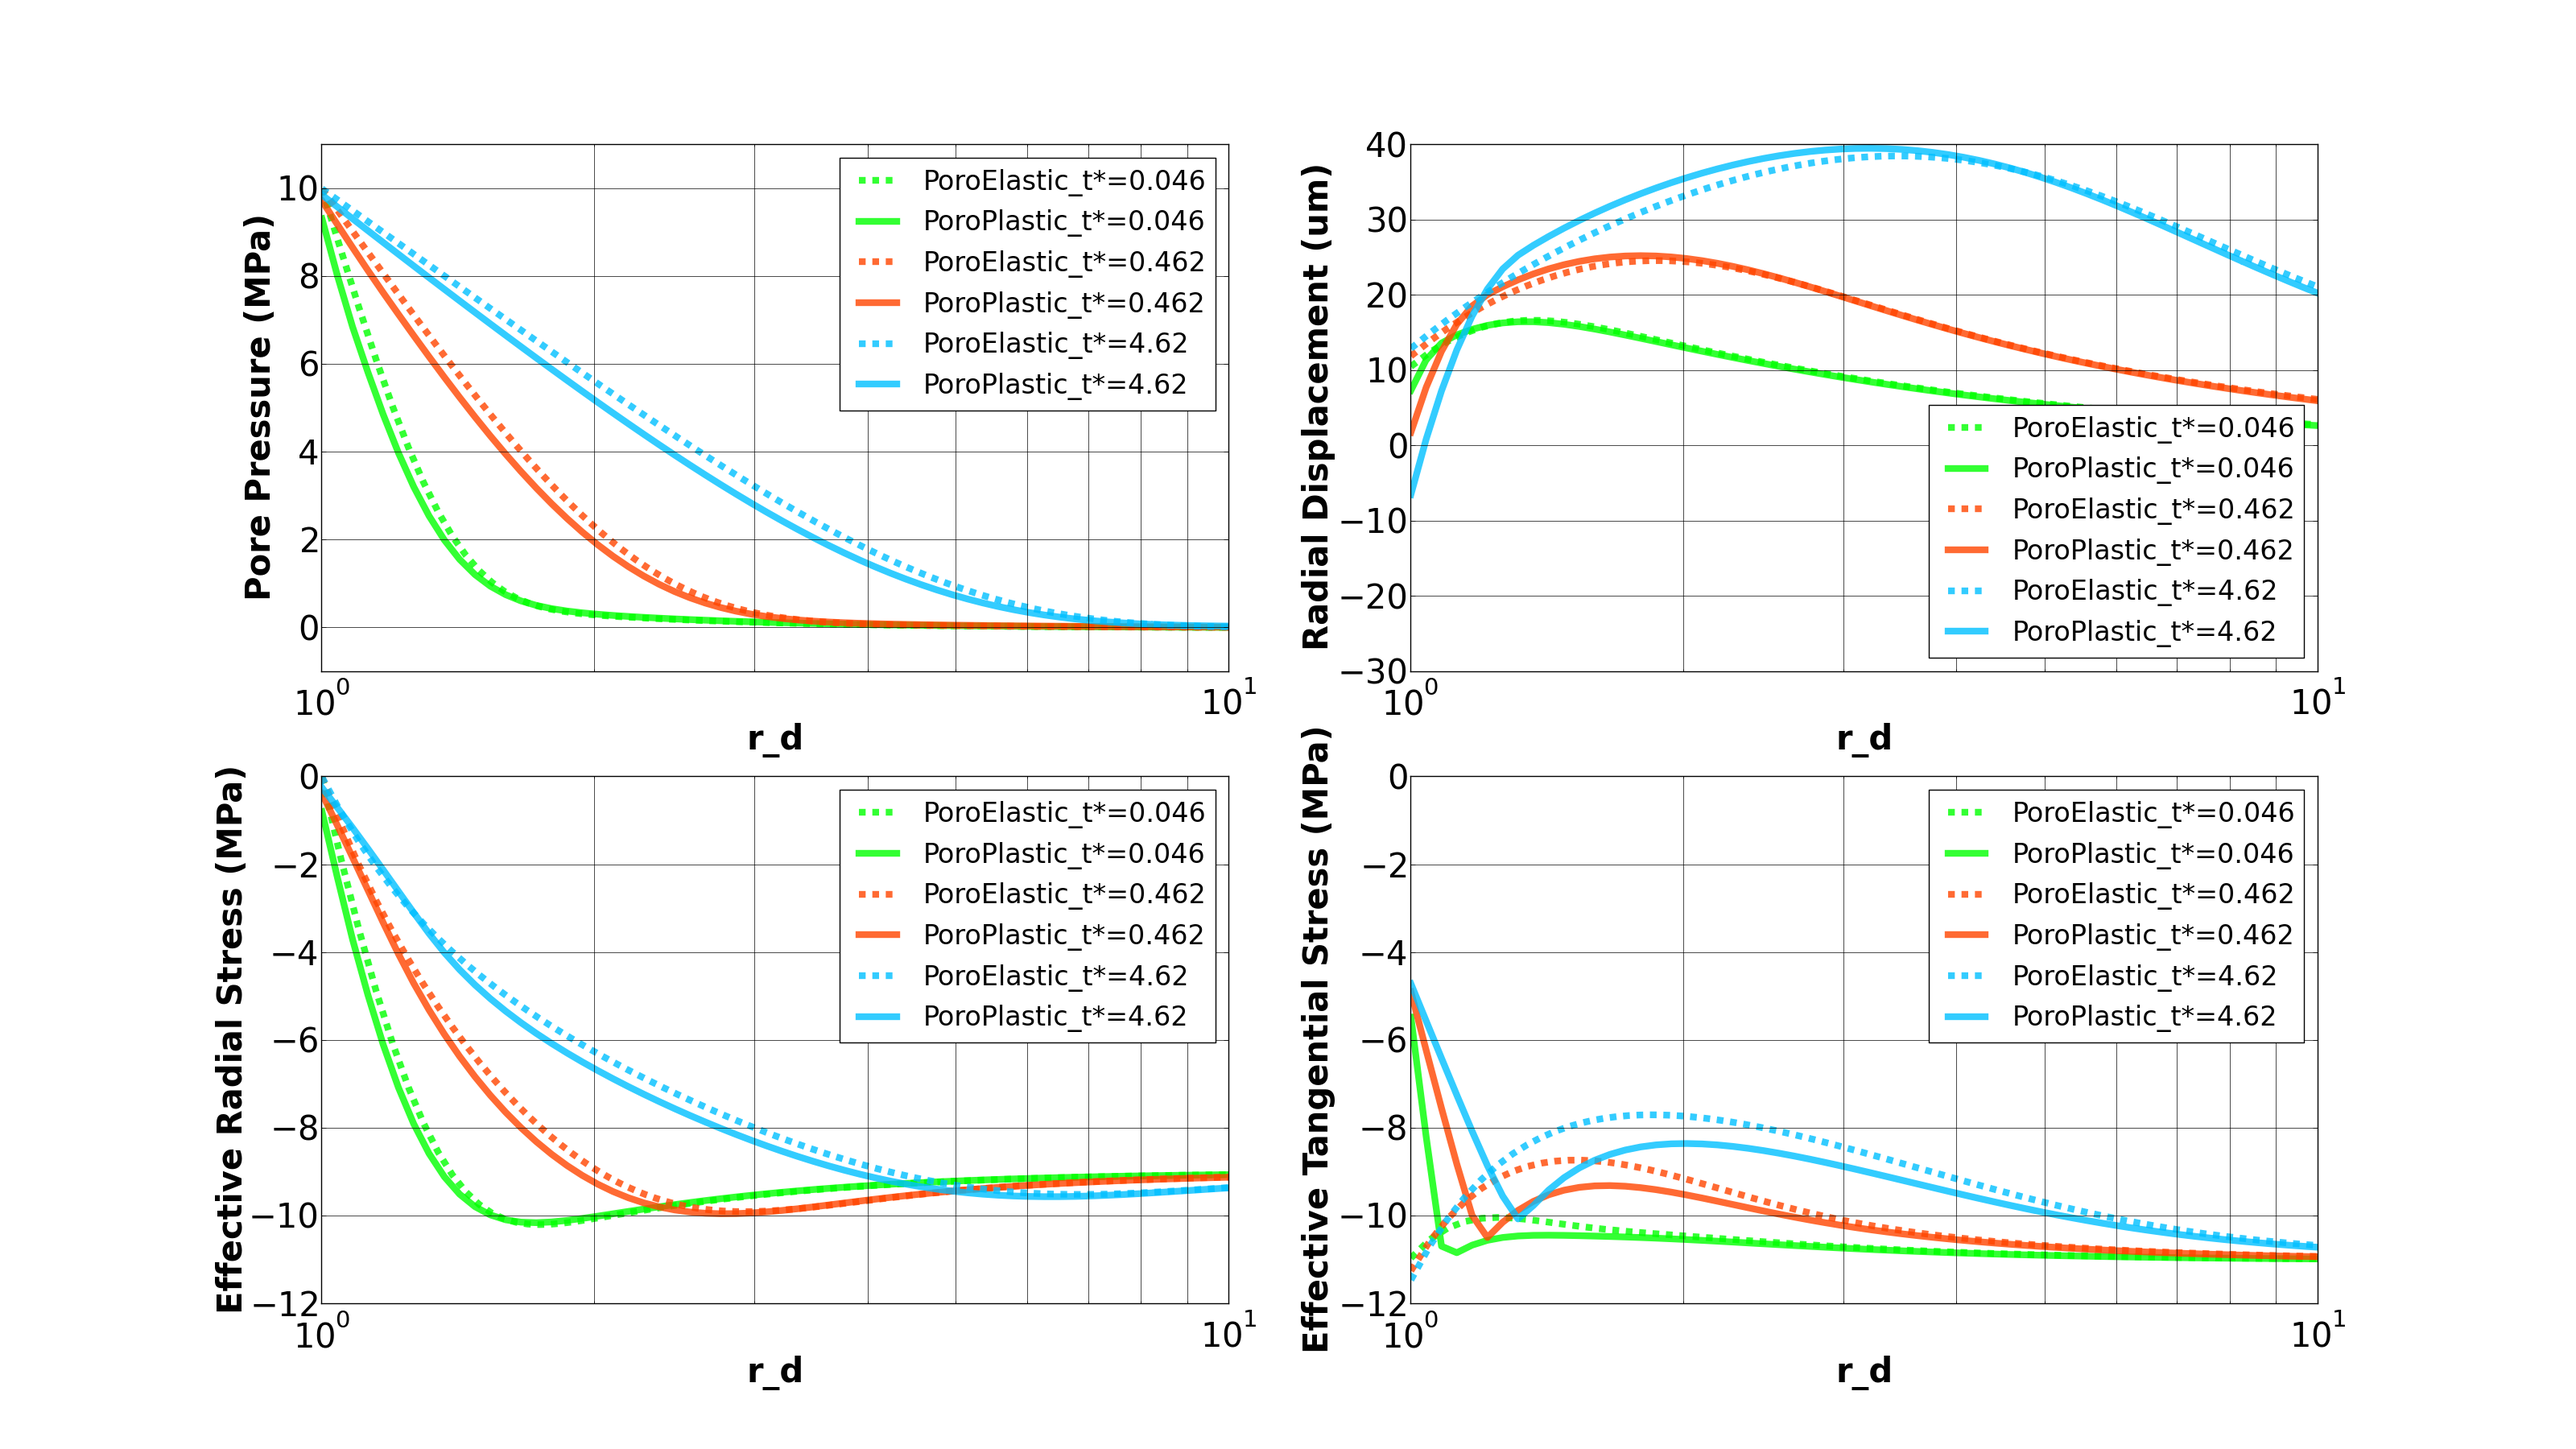
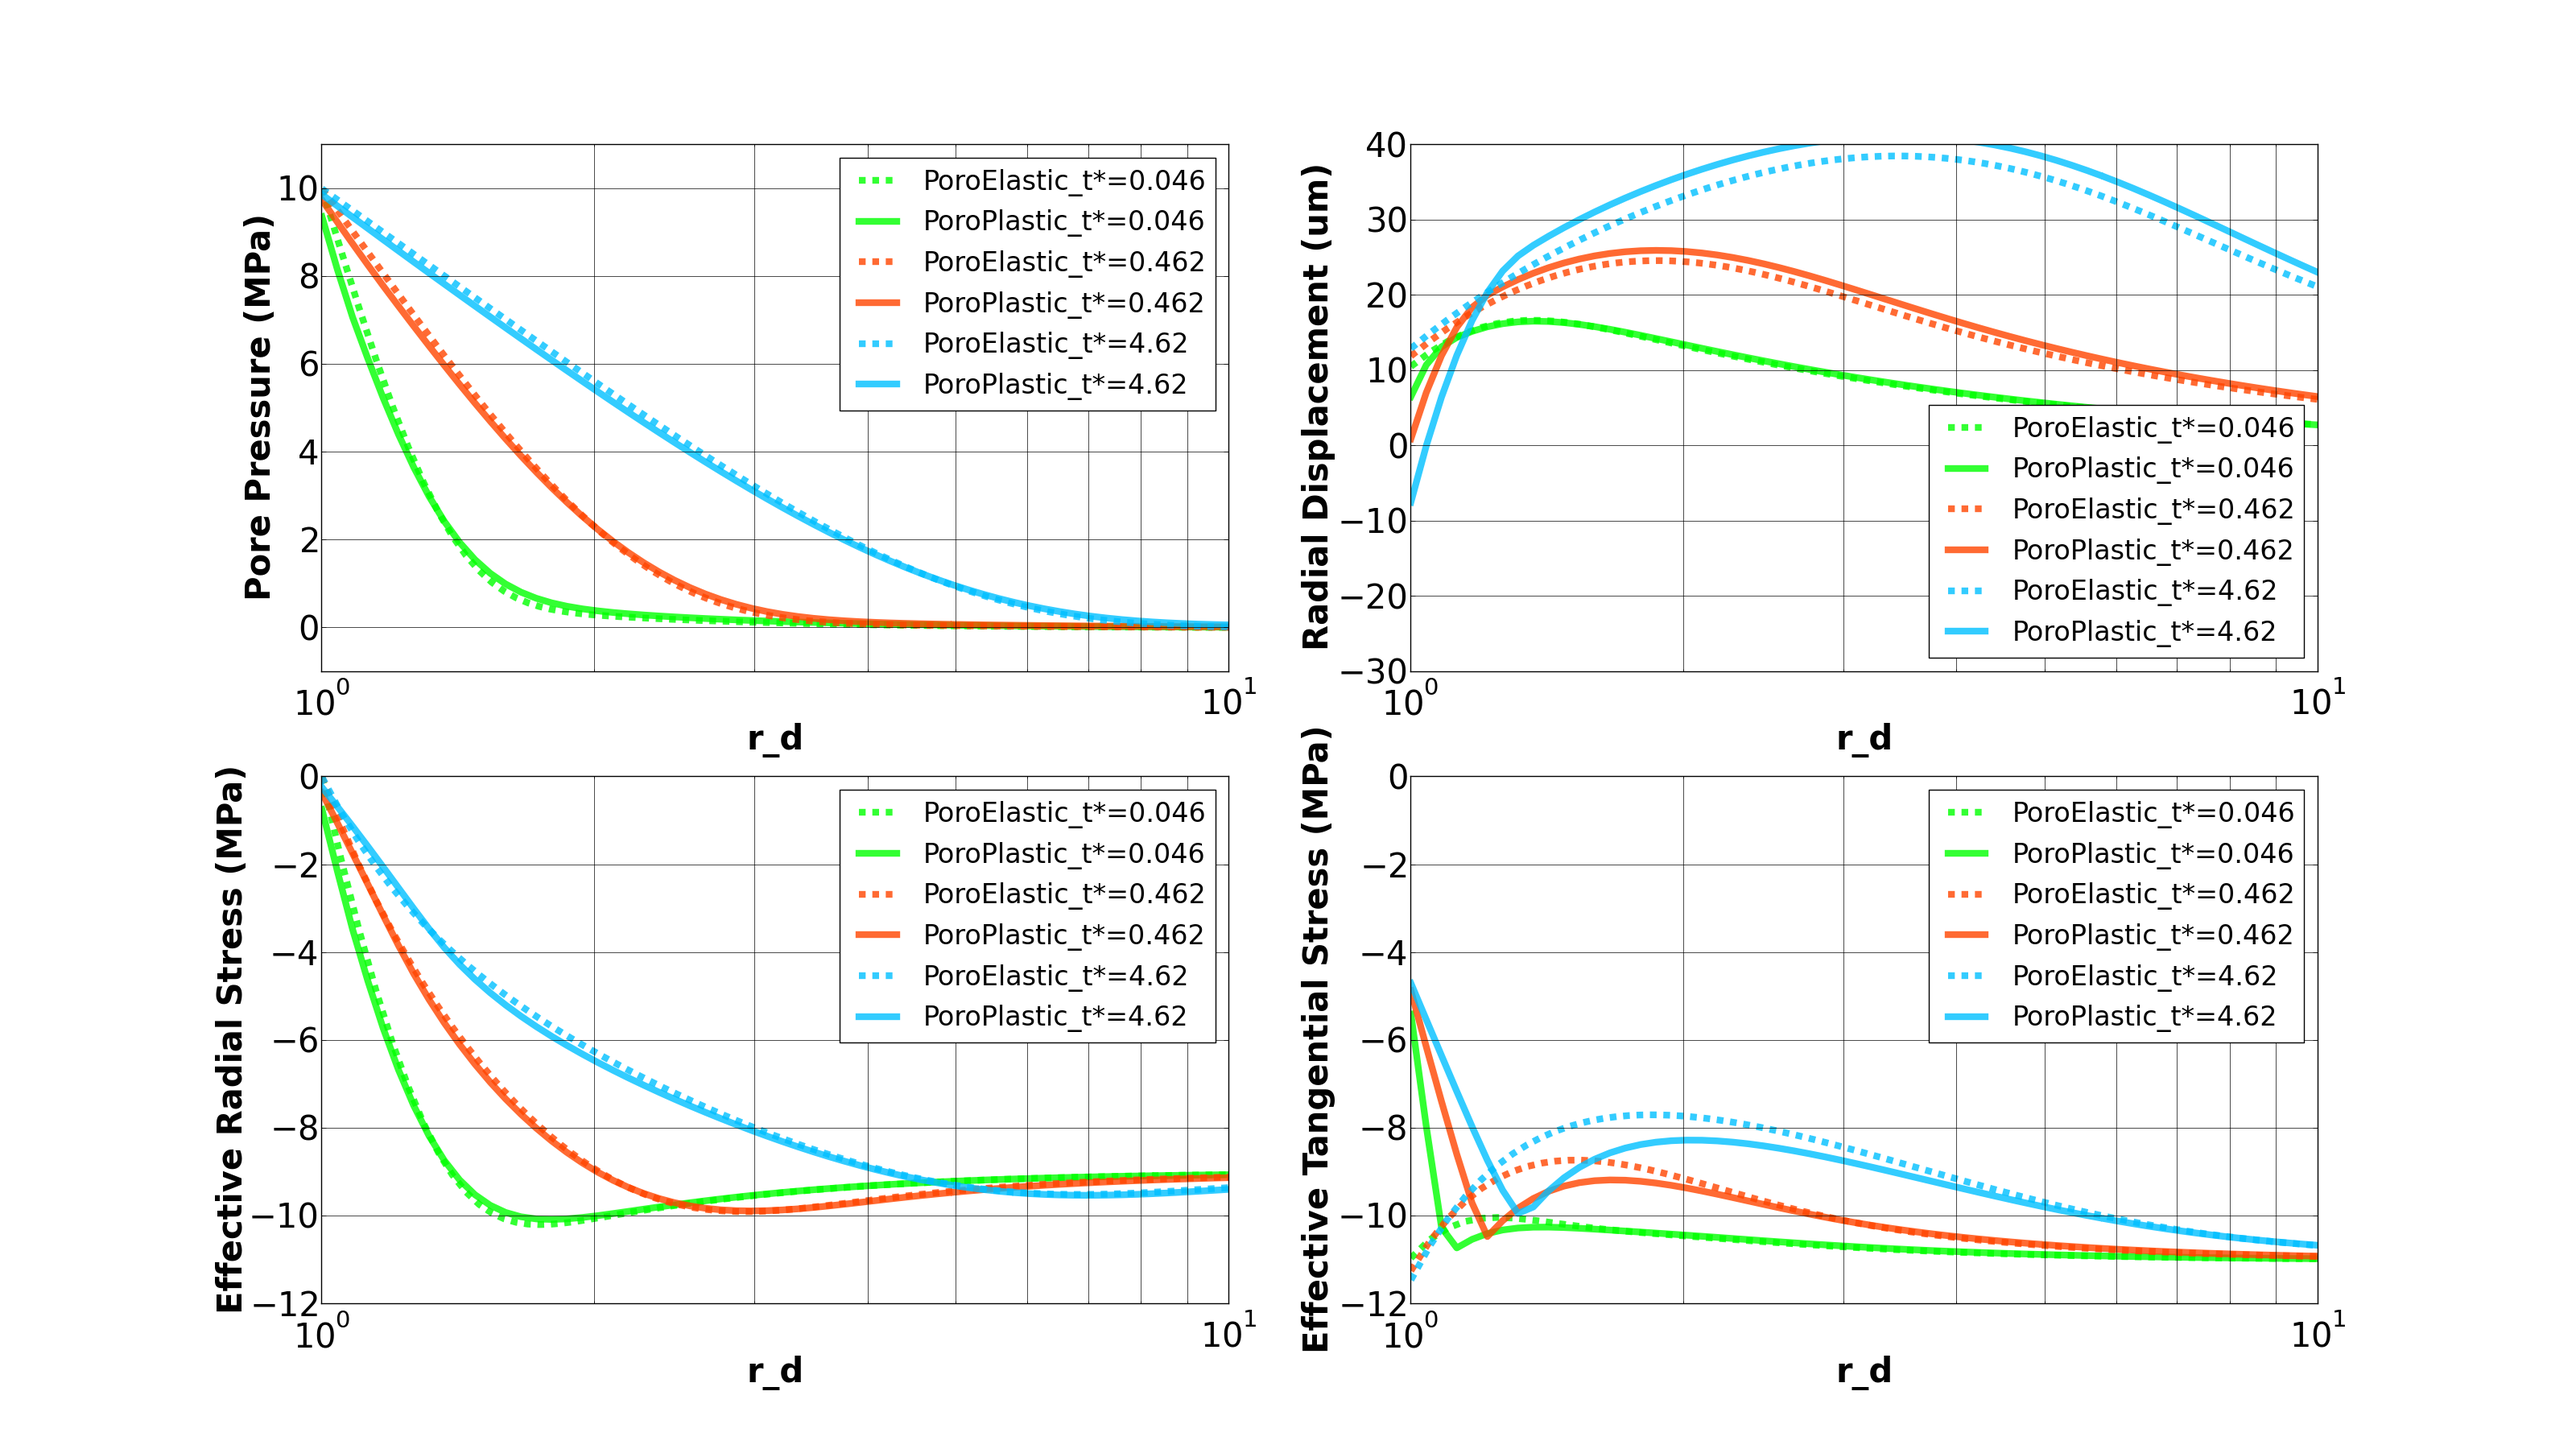
update the files with new CoupleSolidModel

diff --git a/src/docs/sphinx/tutorials/step12/Tutorial.rst b/src/docs/sphinx/tutorials/step12/Tutorial.rst
@@ -8,14 +8,14 @@ Tutorial 12: PoroMechanical Models for Wellbore Problems
 
 **Context**
 
-The main objective of this tutorial is to demonstrate how to use internal mesh generator and poromechanical solvers in GEOSX to tackle wellbore problems in porous media. In this tutorial, a poroplastic model is applied to find the solution of rock deformation within the vicinity of a vertical wellbore, considering elastoplastic deformation, fluid diffusion and poromechanical coupling effect. To do so, a single phase flow solver is fully coupled with a small-strain Lagrangian mechanics solver in GEOSX and the Extended Drucker-Prager model (see :ref:`TwoInvariantPlasticity`) is chosen as the material model for the solid domain. We first solve this problem with the existing poroelastic solver and verify the modeling results with the corresponding analytical solutions. Then, the verified case is employed to test the newly implemented poroplasticity solver in GEOSX, whose results are compared with the ones obtained from the poroelastic case to highlight the impact of plasticity in this specific problem.
+The main objective of this tutorial is to demonstrate how to use the internal wellbore mesh generator and poromechanical solvers in GEOSX to tackle wellbore problems in porous media. In this tutorial, a poroplastic model is applied to find the solution of rock deformation within the vicinity of a vertical wellbore, considering elastoplastic deformation, fluid diffusion and poromechanical coupling effect. To do so, a single phase flow solver is fully coupled with a Lagrangian mechanics solver in GEOSX and the Extended Drucker-Prager model (see :ref:`TwoInvariantPlasticity`) is chosen as the material model for the solid domain. We first solve this problem with the existing poroelastic solver and verify the modeling results with the corresponding analytical solutions. Then, the verified case is employed to test the newly implemented poroplasticity solver in GEOSX, whose results are compared with the ones obtained from the poroelastic case to highlight the impact of plasticity in this specific problem.
  
 
 **Objectives**
 
 At the end of this tutorial you will know:
 
-  - how to construct meshes for wellbore problems with internal mesh generator,
+  - how to construct meshes for wellbore problems with the internal wellbore mesh generator,
   - how to specify initial and boundary conditions, such as reservoir properties, in-situ stresses, mixed loading (mechanical and fluid) at wellbore wall and far-field constraints,
   - how to use multiple solvers in GEOSX for predicting poroplastic deformations in the near wellbore region.
 
@@ -141,7 +141,7 @@ in their corresponding documents.
 In this tutorial, let us focus on the coupling solver.
 This solver (``PoroelasticitySolver``) uses a set of attributes that specifically describe the coupling process within a poromechanical framework.
 For instance, we must point this solver to the designated fluid solver (here: ``SinglePhaseFlowSolver``) and solid solver (here: ``mechanicsSolver``).
-We specify the coupling type (``FIM``, fully implicit method; a choice among several possible options), the discretization method (``FE1``, defined in the ``NumericalMethods`` section), and the target regions (here, we only have one, ``Omega``).
+These solvers are forced to interact through the ``porousMaterialNames="{porousRock}"`` with all the constitutive models. We specify the the discretization method (``FE1``, defined in the ``NumericalMethods`` section), and the target regions (here, we only have one, ``Omega``).
 And more parameters are required to characterize a coupling procedure (more information at :ref:`PoroelasticSolver`). In this way, the two single-physics solvers will be simultaneously called and executed for solving the wellbore problem here.
 
 
@@ -194,7 +194,7 @@ If the residual friction angle is set to be less than the initial one, strain we
 And ``defaultDilationRatio="1.0"`` corresponds to an associated flow rule.
 For this coupled problem, the Biot’s coefficient ``BiotCoefficient`` is assumed to be 1.
 If using an incompressible fluid, user can lower the fluid compressibility ``compressibility`` to 0.
-The constitutive parameters such as the density, the bulk modulus, and the shear modulus are specified in the International System of Units.
+The constitutive parameters such as the density, the bulk modulus, and the shear modulus are specified in the International System of Units. And stress-dependent porosity model ``rockPorosity`` and constant permeability ``rockPerm`` model are defined in this section.
 
 
 
@@ -203,11 +203,11 @@ Initial and Boundary Conditions: defining properties with the FieldSpecification
 
 The next step is to specify fields, including:
 
-  - The initial value (the in-situ stresses, permeability, porosity and pore pressure have to be initialized)
+  - The initial value (the in-situ stresses and pore pressure have to be initialized)
   - The boundary conditions (traction and fluid loading at the wellbore wall and constraints of the outer boundaries have to be set)
 
-In this tutorial, we need to specify anisotropic horizontal stress (:math:`\Sigma_h` = 9.0 MPa and :math:`\Sigma_H` = 11.0 MPa) and vertical stress (:math:`\Sigma_v` = 12.0 MPa). 
-A compressive traction (``InnerMechanicalLoad``) :math:`P_w` = -10 MPa and fluid loading (``InnerFluidLoad``) :math:`P_wf` = -10 MPa are applied at the wellbore wall ``rneg``.
+In this tutorial, we need to specify anisotropic horizontal stress (:math:`\Sigma_h` = -9.0 MPa and :math:`\Sigma_H` = -11.0 MPa) and vertical stress (:math:`\Sigma_v` = -12.0 MPa). 
+A compressive traction (``InnerMechanicalLoad``) :math:`P_w` = -10 MPa and fluid loading (``InnerFluidLoad``) :math:`P_wf` = 10 MPa are applied at the wellbore wall ``rneg``.
 The remaining parts of the outer boundaries are subjected to roller constraints.  
 These boundary conditions are set up through the ``FieldSpecifications`` section.
 
@@ -218,7 +218,7 @@ These boundary conditions are set up through the ``FieldSpecifications`` section
     :end-before: <!-- SPHINX_WELLBORE_BC_END -->
 
 
-With ``tractionType="1"``, traction is applied to the wellbore wall ``rneg`` as a pressure specified from the product of scale ``scale="-10.0e6"`` and the outward face normal. 
+With ``tractionType="normal"``, traction is applied to the wellbore wall ``rneg`` as a pressure specified from the product of scale ``scale="-10.0e6"`` and the outward face normal. 
 A table function ``timeFunction`` is used to define the time-dependent loading. 
 The ``coordinates`` and ``values`` form a time-magnitude
 pair for the loading time history. In this case, the loading magnitude decreases linearly as the time evolves. 
@@ -230,20 +230,21 @@ pair for the loading time history. In this case, the loading magnitude decreases
 
 You may note :
 
- - All initial value fields must have ``initialCondition`` field set to ``1``,
- - The ``setName`` field points to the previously defined box to apply the fields,
- - ``nodeManager`` and ``faceManager`` in the ``objectPath`` indicate that the boundary conditions are applied to the element nodes and faces, respectively,
- - ``fieldName`` is the name of the field registered in GEOSX,
- - Component ``0``, ``1``, and ``2`` refer to the x, y, and z direction, respectively,
- - And the non-zero values given by ``Scale`` indicate the magnitude of the loading,
- - Some shorthands, such as ``xneg`` and ``xpos``, are used as the locations where the boundary conditions are applied in the computational domain. For instance, ``xneg`` means the portion of the computational domain located at the left-most in the x-axis, while ``xpos`` refers to the portion located at the right-most area in the x-axis. Similar shorthands include ``ypos``, ``yneg``, ``zpos``, and ``zneg``. 
+ - All initial value fields must have ``initialCondition`` field set to ``1``;
+ - The ``setName`` field points to the previously defined box to apply the fields;
+ - ``nodeManager`` and ``faceManager`` in the ``objectPath`` indicate that the boundary conditions are applied to the element nodes and faces, respectively;
+ - ``fieldName`` is the name of the field registered in GEOSX;
+ - Component ``0``, ``1``, and ``2`` refer to the x, y, and z direction, respectively;
+ - And the non-zero values given by ``Scale`` indicate the magnitude of the loading;
+ - Some shorthands, such as ``xneg`` and ``xpos``, are used as the locations where the boundary conditions are applied in the computational domain. For instance, ``xneg`` means the portion of the computational domain located at the left-most in the x-axis, while ``xpos`` refers to the portion located at the right-most area in the x-axis. Similar shorthands include ``ypos``, ``yneg``, ``zpos``, and ``zneg``;
+ - The mud pressure loading has a negative value due to the negative sign convention for compressive stress in GEOSX. 
 
  
 The parameters used in the simulation are summarized in the following table, which are specified in the
 ``Constitutive`` and ``FieldSpecifications`` sections.
 
 +------------------+-------------------------+------------------+--------------------+
-| Symbol           | Parameter               | Units            | Value              |
+| Symbol           | Parameter               | Unit             | Value              |
 +==================+=========================+==================+====================+
 | :math:`K`        | Bulk Modulus            | [GPa]            | 11.11              |
 +------------------+-------------------------+------------------+--------------------+
@@ -257,19 +258,17 @@ The parameters used in the simulation are summarized in the following table, whi
 +------------------+-------------------------+------------------+--------------------+
 | :math:`c_h`      | Hardening Rate          | [-]              | 0.01               |
 +------------------+-------------------------+------------------+--------------------+
-| :math:`\Sigma_h` | Min Horizontal Stress   | [MPa]            | 9.0                |
+| :math:`\Sigma_h` | Min Horizontal Stress   | [MPa]            | -9.0               |
 +------------------+-------------------------+------------------+--------------------+
-| :math:`\Sigma_H` | Max Horizontal Stress   | [MPa]            | 11.0               |
+| :math:`\Sigma_H` | Max Horizontal Stress   | [MPa]            | -11.0              |
 +------------------+-------------------------+------------------+--------------------+
-| :math:`\Sigma_v` | Vertical Stress         | [MPa]            | 12.0               |
+| :math:`\Sigma_v` | Vertical Stress         | [MPa]            | -12.0              |
 +------------------+-------------------------+------------------+--------------------+
 | :math:`a_0`      | Initial Well Radius     | [m]              | 0.1                |
 +------------------+-------------------------+------------------+--------------------+
-| :math:`P_w`      | Traction at Well        | [MPa]            | 10.0               |
+| :math:`P_w`      | Traction at Well        | [MPa]            | -10.0              |
 +------------------+-------------------------+------------------+--------------------+
 | :math:`P_wf`     | Fluid Pressure at Well  | [MPa]            | 10.0               |
-+------------------+-------------------------+------------------+--------------------+
-| :math:`b`        | Biot's Coefficient      | [-]              | 1.0                |
 +------------------+-------------------------+------------------+--------------------+
 | :math:`\rho_f`   | Fluid Density           | [kg/m\ :sup:`3`] | 1000.0             |
 +------------------+-------------------------+------------------+--------------------+
